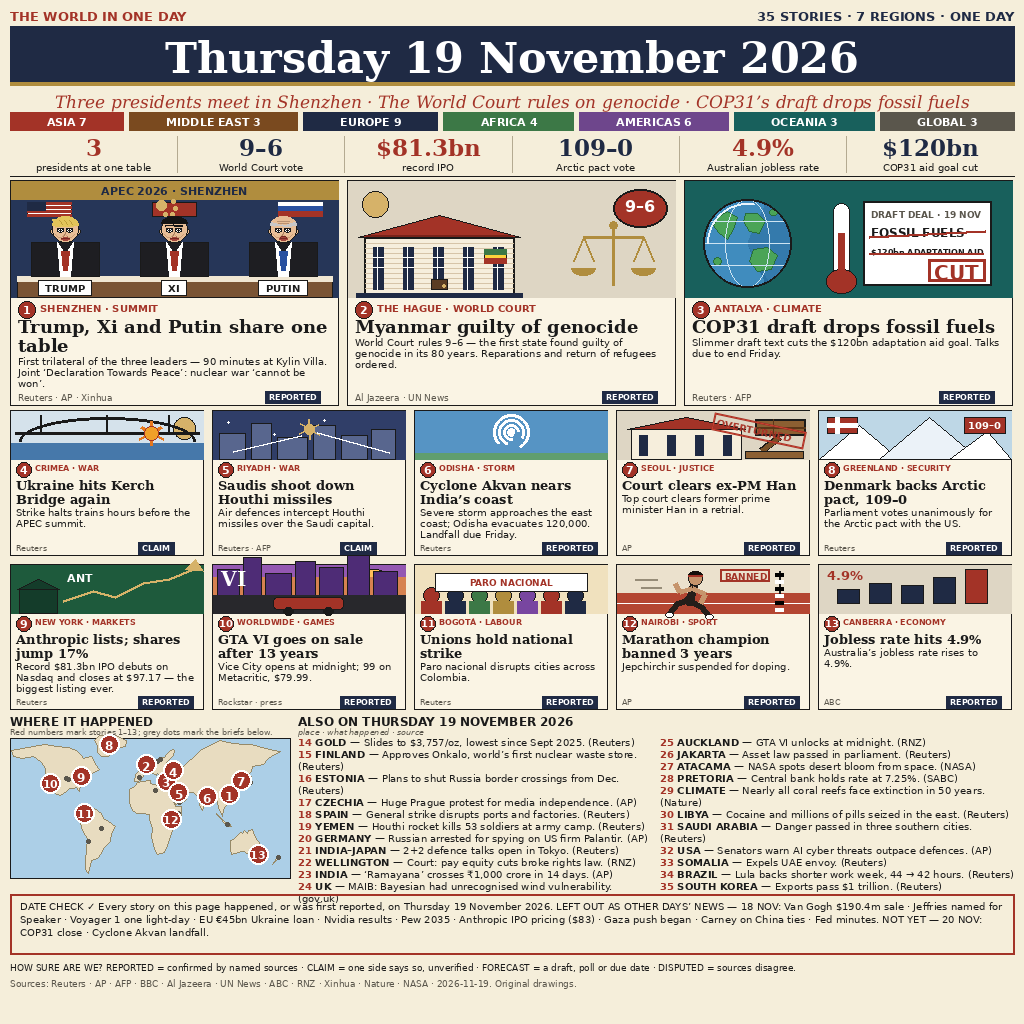
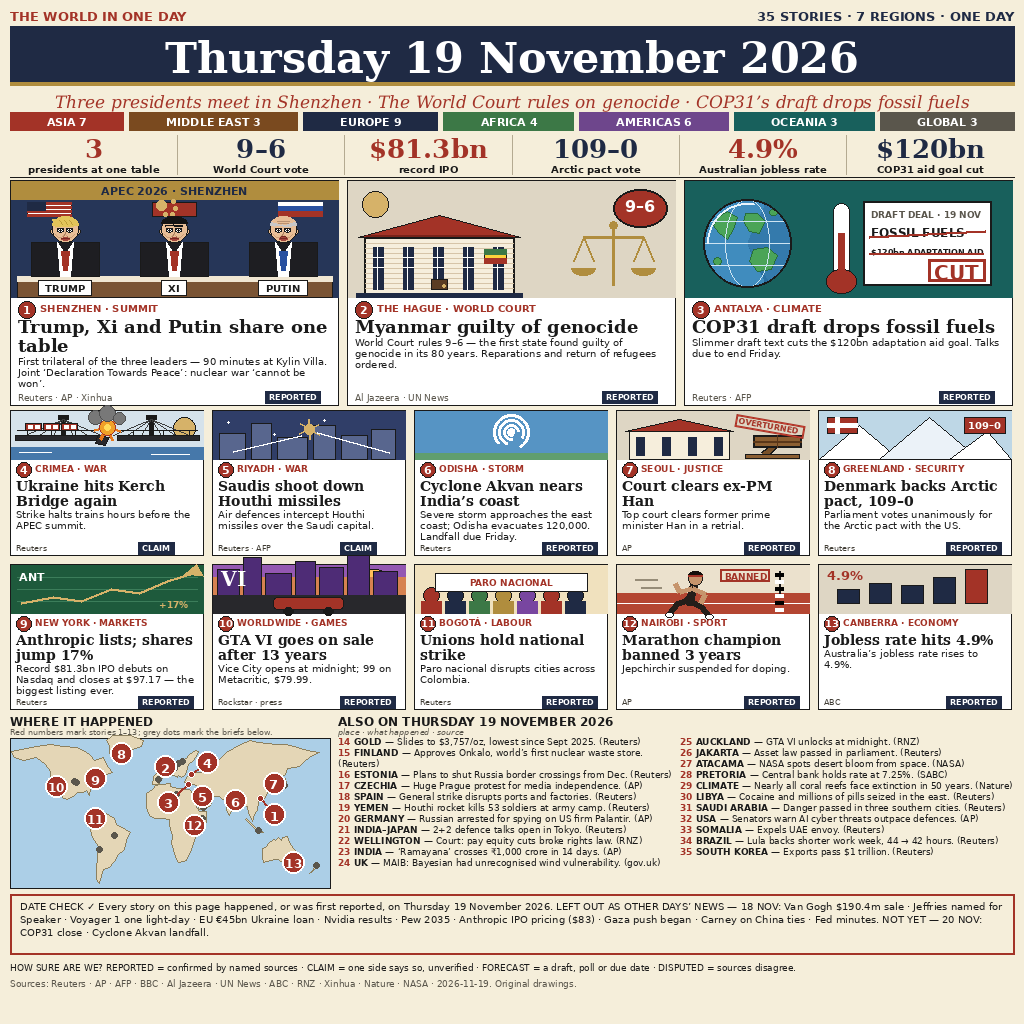
Rebuild 3 agent 4 2/3: 300px card legibility (white cards, 14pt headlines, bigger stat numbers), bigger map with leader-offset pins, recognisable Kerch cable-stayed bridge + explosion, house shape removed from Anthropic chart, OVERTURNED stamp moved off Seoul building

diff --git a/render.py b/render.py
@@ -75,7 +75,9 @@ def hline(draw, x0, x1, y, fill=INK, w=1):
     draw.line([(x0, y), (x1, y)], fill=fill, width=w)
 
 
-def card_frame(draw, x, y, w, h, fill=PAPER):
+def card_frame(draw, x, y, w, h, fill=(255, 255, 255)):
+    # White card face on the cream page: the dark text on pale cream was
+    # what washed out at 300px; white lifts headline/deck contrast.
     draw.rectangle([x, y, x + w - 1, y + h - 1], fill=fill, outline=INK, width=1)
 
 
@@ -325,20 +327,50 @@ def hero_cop31(draw, x, y, w, h):
 
 # ---------------------------------------------------------------- card scenes
 def scene_bridge(draw, x, y, w, h):
+    # Cable-stayed bridge, recognisable as a bridge: two towers, stay
+    # cables fanning to the deck, a train on the left span, and a broken
+    # middle span with a big explosion + smoke (the old thin arc read as
+    # an "abstract arc").
     draw.rectangle([x, y, x + w, y + h], fill=SKY)
     draw.ellipse([x + w - 30, y + 6, x + w - 8, y + 28], fill=GOLD_LT, outline=INK, width=1)
-    # sea
-    draw.rectangle([x, y + h - 16, x + w, y + h], fill=(70, 120, 170))
-    # bridge arc + deck
-    draw.arc([x + 8, y + 6, x + w - 8, y + h + 6], 180, 360, fill=INK, width=3)
-    draw.line([(x + 4, y + h - 26), (x + w - 4, y + h - 26)], fill=INK, width=3)
-    for px in (x + 30, x + w // 2, x + w - 34):
-        draw.line([(px, y + h - 26), (px, y + h - 44)], fill=INK, width=2)
-    # explosion
-    ex, ey = x + w - 52, y + 22
-    for dx, dy in [(0, -12), (10, -6), (12, 6), (0, 12), (-12, 6), (-10, -6)]:
+    # sea + waves
+    draw.rectangle([x, y + h - 12, x + w, y + h], fill=(70, 120, 170))
+    draw.line([(x + 8, y + h - 7), (x + 40, y + h - 7)], fill=(255, 255, 255), width=1)
+    draw.line([(x + w - 52, y + h - 5), (x + w - 14, y + h - 5)], fill=(255, 255, 255), width=1)
+    deck_y = y + h - 24
+    # towers
+    for tx in (x + 52, x + 140):
+        draw.rectangle([tx - 2, y + 6, tx + 2, deck_y], fill=INK)
+        draw.rectangle([tx - 5, y + 4, tx + 5, y + 8], fill=INK)
+    # stay cables from each tower top to the deck
+    for tx in (x + 52, x + 140):
+        for dx in (-38, -24, -10, 10, 24, 38):
+            draw.line([(tx, y + 8), (tx + dx, deck_y)], fill=(60, 60, 60), width=1)
+    # deck: left span + right span, broken in the middle
+    draw.rectangle([x + 4, deck_y, x + 86, deck_y + 5], fill=(40, 40, 44), outline=INK, width=1)
+    draw.rectangle([x + 106, deck_y, x + w - 4, deck_y + 5], fill=(40, 40, 44), outline=INK, width=1)
+    # broken stub tilting down into the gap
+    draw.polygon([(x + 86, deck_y), (x + 98, deck_y + 2), (x + 94, deck_y + 10),
+                  (x + 84, deck_y + 8)], fill=(40, 40, 44), outline=INK)
+    # railing posts on both spans
+    for px in (x + 16, x + 40, x + 64, x + 122, x + 152, x + 178):
+        draw.line([(px, deck_y - 5), (px, deck_y)], fill=INK, width=1)
+    draw.line([(x + 6, deck_y - 5), (x + 84, deck_y - 5)], fill=INK, width=1)
+    draw.line([(x + 108, deck_y - 5), (x + w - 6, deck_y - 5)], fill=INK, width=1)
+    # halted train on the left span
+    for cx0 in (x + 14, x + 32, x + 50):
+        draw.rectangle([cx0, deck_y - 12, cx0 + 16, deck_y - 5], fill=BRICK, outline=INK, width=1)
+        draw.rectangle([cx0 + 3, deck_y - 10, cx0 + 7, deck_y - 7], fill=(255, 255, 255))
+        draw.rectangle([cx0 + 10, deck_y - 10, cx0 + 14, deck_y - 7], fill=(255, 255, 255))
+    # explosion in the gap + smoke plume
+    ex, ey = x + 96, deck_y - 8
+    for dx, dy in [(0, -14), (11, -8), (13, 4), (5, 13), (-7, 12), (-13, 3), (-11, -9)]:
         draw.line([(ex, ey), (ex + dx, ey + dy)], fill=(230, 120, 30), width=3)
-    draw.ellipse([ex - 7, ey - 7, ex + 7, ey + 7], fill=(240, 160, 40), outline=BRICK, width=1)
+    draw.ellipse([ex - 8, ey - 8, ex + 8, ey + 8], fill=(240, 160, 40), outline=BRICK, width=1)
+    draw.ellipse([ex - 3, ey - 3, ex + 3, ey + 3], fill=(255, 220, 90))
+    for sx, sy, sr in [(x + 84, y + 6, 7), (x + 96, y + 2, 8), (x + 108, y + 7, 6)]:
+        draw.ellipse([sx - sr, sy - sr, sx + sr, sy + sr], fill=(120, 120, 120),
+                     outline=(80, 80, 80), width=1)
 
 
 def scene_riyadh(draw, x, y, w, h):
@@ -371,27 +403,29 @@ def scene_cyclone(draw, x, y, w, h):
 
 def scene_court(draw, x, y, w, h):
     draw.rectangle([x, y, x + w, y + h], fill=(222, 214, 196))
-    bx, by, bw, bh = x + 14, y + 18, 110, 30
+    # court building, narrower than before so the stamp fits clear of it
+    bx, by, bw, bh = x + 12, y + 20, 100, 28
     draw.rectangle([bx, by, bx + bw, by + bh], fill=(246, 238, 220), outline=INK, width=1)
     draw.polygon([(bx - 4, by), (bx + bw / 2, by - 12), (bx + bw + 4, by)], fill=BRICK, outline=INK)
     for i in range(4):
-        cx = bx + 12 + i * 28
+        cx = bx + 11 + i * 26
         draw.rectangle([cx - 4, by + 6, cx + 4, by + bh - 4], fill=NAVY)
-    # big gavel: wide head, thick handle, sound block
-    draw.line([(x + 162, y + 26), (x + 144, y + 40)], fill=INK, width=8)
-    draw.line([(x + 162, y + 26), (x + 144, y + 40)], fill=(120, 80, 40), width=5)
-    draw.rectangle([x + 138, y + 8, x + 188, y + 24], fill=(140, 95, 50), outline=INK, width=2)
-    draw.line([(x + 138, y + 16), (x + 188, y + 16)], fill=(90, 55, 25), width=2)
-    draw.line([(x + 156, y + 8), (x + 156, y + 24)], fill=(90, 55, 25), width=1)
-    draw.rectangle([x + 128, y + 40, x + 186, y + 47], fill=(140, 95, 50), outline=INK, width=1)
-    # red OVERTURNED stamp, tilted, on top of the illustration
+    # gavel lowered to the bottom-right, clear of the stamp zone above it
+    draw.line([(x + 160, y + 32), (x + 146, y + 44)], fill=INK, width=8)
+    draw.line([(x + 160, y + 32), (x + 146, y + 44)], fill=(120, 80, 40), width=5)
+    draw.rectangle([x + 136, y + 24, x + 184, y + 36], fill=(140, 95, 50), outline=INK, width=2)
+    draw.line([(x + 136, y + 30), (x + 184, y + 30)], fill=(90, 55, 25), width=2)
+    draw.line([(x + 160, y + 24), (x + 160, y + 36)], fill=(90, 55, 25), width=1)
+    draw.rectangle([x + 128, y + 43, x + 182, y + 47], fill=(140, 95, 50), outline=INK, width=1)
+    # red OVERTURNED stamp, small, in the clear sky at top-right —
+    # it used to sit on top of the building's roof and columns
     if _IMG[0] is not None:
-        st = Image.new("RGBA", (96, 20), (0, 0, 0, 0))
+        st = Image.new("RGBA", (72, 15), (0, 0, 0, 0))
         sd = ImageDraw.Draw(st)
-        sd.rectangle([1, 1, 94, 18], outline=BRICK, width=2)
-        sd.text((5, 4), "OVERTURNED", font=SANS_B(10), fill=BRICK)
-        st = st.rotate(-12, expand=True, resample=Image.BICUBIC)
-        _IMG[0].paste(st, (x + 92, y + 0), st)
+        sd.rectangle([1, 1, 70, 13], outline=BRICK, width=2)
+        sd.text((4, 2), "OVERTURNED", font=SANS_B(8), fill=BRICK)
+        st = st.rotate(-10, expand=True, resample=Image.BICUBIC)
+        _IMG[0].paste(st, (x + 116, y + 1), st)
 
 
 def scene_arctic(draw, x, y, w, h):
@@ -412,17 +446,22 @@ def scene_arctic(draw, x, y, w, h):
 
 
 def scene_stocks(draw, x, y, w, h):
+    # Pure line chart: the old exchange-building silhouette (triangle
+    # roof + block) read as an "odd house shape" on the chart.
     draw.rectangle([x, y, x + w, y + h], fill=(30, 90, 60))
-    # exchange building silhouette
-    draw.rectangle([x + 8, y + h - 24, x + 46, y + h], fill=(20, 60, 42), outline=INK, width=1)
-    draw.polygon([(x + 6, y + h - 24), (x + 27, y + h - 34), (x + 48, y + h - 24)], fill=(20, 60, 42), outline=INK)
-    pts = [(x + 52, y + h - 12), (x + 82, y + h - 22), (x + 104, y + h - 16),
-           (x + 132, y + h - 30), (x + 158, y + h - 34), (x + 182, y + h - 44)]
+    # faint grid
+    for gy in (y + 12, y + 24, y + 36):
+        draw.line([(x + 6, gy), (x + w - 6, gy)], fill=(60, 125, 90), width=1)
+    pts = [(x + 10, y + h - 10), (x + 42, y + h - 16), (x + 70, y + h - 12),
+           (x + 100, y + h - 24), (x + 128, y + h - 20), (x + 156, y + h - 32),
+           (x + 182, y + h - 40)]
     draw.line(pts, fill=GOLD_LT, width=3)
-    draw.polygon([(pts[-1][0] - 8, pts[-1][1]), (pts[-1][0] + 2, pts[-1][1] - 10),
-                  (pts[-1][0] + 10, pts[-1][1] + 2)], fill=GOLD_LT)
+    draw.polygon([(pts[-1][0] - 9, pts[-1][1] + 1), (pts[-1][0] + 3, pts[-1][1] - 9),
+                  (pts[-1][0] + 10, pts[-1][1] + 3)], fill=GOLD_LT)
     f = SANS_B(11)
-    draw.text((x + 56, y + 6), "ANT", font=f, fill=(255, 255, 255))
+    draw.text((x + 8, y + 5), "ANT", font=f, fill=(255, 255, 255))
+    f2 = SANS_B(9)
+    draw.text((x + w - 44, y + h - 14), "+17%", font=f2, fill=GOLD_LT)
 
 
 def scene_gta(draw, x, y, w, h):
@@ -591,10 +630,15 @@ CONTINENTS = [
 ]
 
 PINS = [
-    (1, 112, 23), (2, 5, 52), (3, 31, 36), (4, 40, 46), (5, 47, 25),
-    (6, 84, 21), (7, 127, 37), (8, -42, 72), (9, -78, 41), (10, -118, 34),
+    (1, 112, 23), (2, 5, 52), (3, 31, 36), (4, 34, 45), (5, 47, 25),
+    (6, 84, 21), (7, 127, 37), (8, -45, 64), (9, -74, 41), (10, -118, 34),
     (11, -74, 5), (12, 37, -1), (13, 149, -35),
 ]
+
+# Badge offsets (px, relative to the pin's true map point) for pins whose
+# badges would otherwise overlap a neighbour: 1 Shenzhen/7 Seoul,
+# 3 Antalya/4 Kerch/5 Riyadh. A leader line joins badge to true point.
+PIN_OFFSETS = {1: (14, 16), 3: (-20, 18), 4: (16, -12)}
 
 BRIEF_DOTS = [
     (24, 57), (20, 55), (15, 50), (-3, 40), (48, 15), (10, 51), (139, 35),
@@ -607,19 +651,29 @@ def draw_map(draw, x, y, w, h):
     draw.rectangle([x, y, x + w, y + h], fill=SEA, outline=INK, width=1)
     for poly in CONTINENTS:
         pts = [lonlat_to_xy(lon, lat, x, y, w, h) for lon, lat in poly]
-        draw.polygon(pts, fill=LAND, outline=(150, 138, 105))
+        draw.polygon(pts, fill=(228, 214, 182), outline=(140, 128, 95))
     for lon, lat in BRIEF_DOTS:
         px, py = lonlat_to_xy(lon, lat, x, y, w, h)
-        draw.ellipse([px - 2, py - 2, px + 2, py + 2], fill=GREY)
+        draw.ellipse([px - 3, py - 3, px + 3, py + 3], fill=GREY)
+    # leader lines + true-point dots first, badges on top
     for n, lon, lat in PINS:
         px, py = lonlat_to_xy(lon, lat, x, y, w, h)
-        d = 20
-        draw.ellipse([px - d / 2, py - d / 2, px + d / 2, py + d / 2],
+        dx, dy = PIN_OFFSETS.get(n, (0, 0))
+        if (dx, dy) != (0, 0):
+            draw.line([(px, py), (px + dx, py + dy)], fill=BRICK, width=2)
+            draw.ellipse([px - 3, py - 3, px + 3, py + 3], fill=BRICK,
+                         outline=(255, 255, 255), width=1)
+    for n, lon, lat in PINS:
+        px, py = lonlat_to_xy(lon, lat, x, y, w, h)
+        dx, dy = PIN_OFFSETS.get(n, (0, 0))
+        cx, cy = px + dx, py + dy
+        d = 22
+        draw.ellipse([cx - d / 2, cy - d / 2, cx + d / 2, cy + d / 2],
                      fill=BRICK, outline=(255, 255, 255), width=2)
         s = str(n)
-        f = SANS_B(12 if len(s) < 2 else 11)
+        f = SANS_B(13 if len(s) < 2 else 12)
         tw = draw.textlength(s, font=f)
-        draw.text((px - tw / 2, py - 6), s, font=f, fill=(255, 255, 255))
+        draw.text((cx - tw / 2, cy - 7), s, font=f, fill=(255, 255, 255))
 
 
 # ---------------------------------------------------------------- content
@@ -778,19 +832,19 @@ def main():
                fill=(255, 255, 255))
         cx += wd + gap
 
-    # ---- numbers strip
-    y = 134
+    # ---- numbers strip (bigger, bolder: rank 1 wins 300px on big stat numbers)
+    y = 133
     cell = CW / 6
     for i, (num, lbl) in enumerate(NUMBERS):
         x = X0 + i * cell
-        f1 = SERIF_B(23)
+        f1 = SERIF_B(26)
         d.text((x + (cell - d.textlength(num, font=f1)) / 2, y), num, font=f1,
                fill=BRICK if i % 2 == 0 else NAVY)
-        f2 = SANS(10)
-        d.text((x + (cell - d.textlength(lbl, font=f2)) / 2, y + 27), lbl, font=f2, fill=INK)
+        f2 = SANS_B(10)
+        d.text((x + (cell - d.textlength(lbl, font=f2)) / 2, y + 30), lbl, font=f2, fill=INK)
         if i:
-            d.line([(x, y + 2), (x, y + 38)], fill=(180, 170, 145), width=1)
-    hline(d, X0, X1, y + 42, fill=INK, w=1)
+            d.line([(x, y + 2), (x, y + 41)], fill=(180, 170, 145), width=1)
+    hline(d, X0, X1, y + 44, fill=INK, w=1)
 
     # ---- hero panels
     y = 180
@@ -821,12 +875,12 @@ def main():
             card["scene"](d, x + 1, yy + 1, CWd - 2, 48)
             ty = yy + 52
             badge_num(d, x + 6, ty, card["num"], 15)
-            d.text((x + 25, ty + 1), card["kicker"], font=SANS_B(8), fill=BRICK)
-            hl = wrap(d, card["headline"], SERIF_B(13), CWd - 12)
-            ty2 = text_block(d, x + 6, ty + 15, hl[:2], SERIF_B(13), INK, leading=14)
+            d.text((x + 25, ty + 1), card["kicker"], font=SANS_B(9), fill=BRICK)
+            hl = wrap(d, card["headline"], SERIF_B(14), CWd - 12)
+            ty2 = text_block(d, x + 6, ty + 15, hl[:2], SERIF_B(14), INK, leading=15)
             dk = wrap(d, card["deck"], SANS(10), CWd - 12)
             text_block(d, x + 6, ty2 + 1, dk[:3], SANS(10), INK, leading=11)
-            d.text((x + 6, yy + RH - 13), card["source"], font=SANS(8), fill=GREY)
+            d.text((x + 6, yy + RH - 13), card["source"], font=SANS(8), fill=(64, 60, 52))
             tag(d, x + CWd - 66, yy + RH - 14, card.get("tag", "REPORTED"))
 
     # ---- bottom: map + briefs
@@ -834,7 +888,7 @@ def main():
     d.text((X0, y), "WHERE IT HAPPENED", font=SANS_B(12), fill=INK)
     d.text((X0, y + 13), "Red numbers mark stories 1\u201313; grey dots mark the briefs below.",
            font=SANS(8), fill=GREY)
-    map_w, map_h = 280, 140
+    map_w, map_h = 320, 150
     draw_map(d, X0, y + 24, map_w, map_h)
 
     bx = X0 + map_w + 8
@@ -842,7 +896,10 @@ def main():
     d.text((bx, y), "ALSO ON THURSDAY 19 NOVEMBER 2026", font=SANS_B(12), fill=INK)
     d.text((bx, y + 13), "place \u00b7 what happened \u00b7 source", font=SANS_O(8), fill=GREY)
     col_w = (bw - 8) / 2
-    f_b, f_r = SANS_B(10), SANS(10)
+    # 9pt briefs: the wider map narrows the columns, and 10pt briefs
+    # would spill 70px past the DATE CHECK box; 9pt still reads cleanly
+    # at full size (briefs are not a 300px element anyway).
+    f_b, f_r = SANS_B(9), SANS(9)
     for ci in range(2):
         col_items = BRIEFS[ci * 11:(ci + 1) * 11]
         yy = y + 22
@@ -858,10 +915,10 @@ def main():
             nx = cx0 + d.textlength(num_s, font=f_b)
             d.text((nx, yy), head, font=f_b, fill=INK)
             d.text((nx + d.textlength(head, font=f_b), yy), lines[0], font=f_r, fill=INK)
-            yy += 12
+            yy += 11
             for ln in lines[1:]:
                 d.text((cx0, yy), ln, font=f_r, fill=INK)
-                yy += 12
+                yy += 11
 
     # ---- footer: DATE CHECK box
     y = 894
